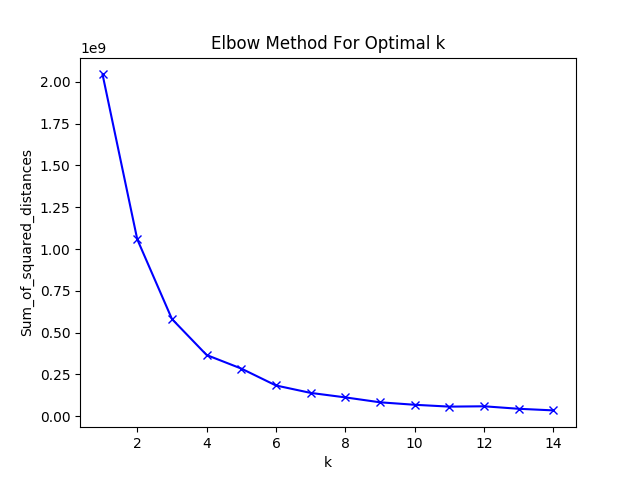
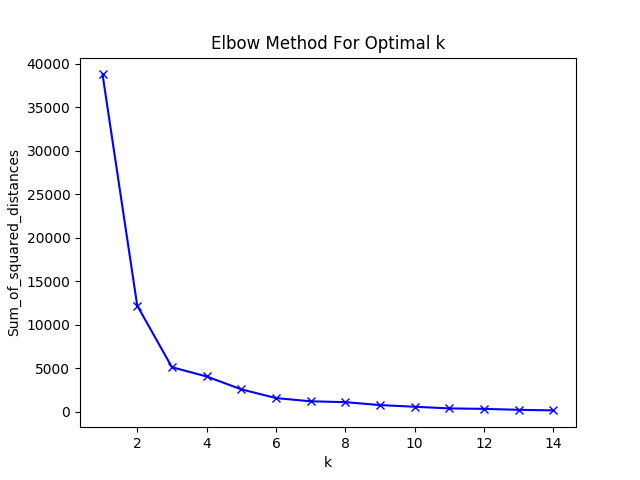
Adding the rest of files

diff --git a/Users_KMeans_Viz.py b/Users_KMeans_Viz.py
@@ -21,20 +21,24 @@ spark = SparkSession \
     .config("spark.some.config.option", "Angadpreet-KMeans") \
     .getOrCreate()
 today = dt.datetime.today()
-spark_df = spark.read.json("Data/yelp_academic_dataset_business.json").select("stars","review_count","is_open").rdd
+spark_df = sc.parallelize(spark.read.json("Data/yelp_academic_dataset_user.json").select("review_count", "average_stars", "yelping_since").rdd.map(lambda x: (x[0], x[1], (today - par.parse(x[2])).days)).take(1700))
 scaler = MinMaxScaler(inputCol="_1",\
          outputCol="scaled_1")
 trial_df = spark_df.map(lambda x: pyspark.ml.linalg.Vectors.dense(x)).map(lambda x:(x, )).toDF()
 scalerModel = scaler.fit(trial_df)
 vector_df = scalerModel.transform(trial_df).select("scaled_1").rdd.map(lambda x:Vectors.dense(x))
-Sum_of_squared_distances = []
-K = range(1,15)
-for k in K:
-    km = KMeans()
-    kme = km.train(vector_df, k)
-    Sum_of_squared_distances.append(kme.computeCost(vector_df))
-plt.plot(K, Sum_of_squared_distances, 'bx-')
-plt.xlabel('k')
-plt.ylabel('Sum_of_squared_distances')
-plt.title('Elbow Method For Optimal k')
+#vector_df = spark_df.map(lambda s : Vectors.dense(s))
+km = KMeans()
+kme = km.train(vector_df, 3)
+print(kme.computeCost(vector_df))
+print(kme.clusterCenters)
+df_with = spark.createDataFrame(vector_df.map(lambda x:(float(x[0][0]), float(x[0][1]), float(x[0][2]), kme.predict(x[0])))).toPandas()
+fig = plt.figure()
+ax = fig.add_subplot(111, projection = '3d')
+scatter = ax.scatter(df_with['_1'],df_with['_2'],df_with['_3'],
+                     c=df_with['_4'])
+ax.set_title('K Means Clustering')
+ax.set_xlabel('Review Count')
+ax.set_ylabel('Average Stars')
+plt.colorbar(scatter)
 plt.show()

diff --git a/User_KMeans.py b/User_KMeans.py
@@ -21,20 +21,17 @@ spark = SparkSession \
     .config("spark.some.config.option", "Angadpreet-KMeans") \
     .getOrCreate()
 today = dt.datetime.today()
-spark_df = spark.read.json("Data/yelp_academic_dataset_business.json").select("stars","review_count","is_open").rdd
+spark_df = sc.parallelize(spark.read.json("Data/yelp_academic_dataset_user.json").select("review_count", "average_stars", "yelping_since").rdd.map(lambda x: (x[0], x[1], (today - par.parse(x[2])).days)).take(1700))
 scaler = MinMaxScaler(inputCol="_1",\
          outputCol="scaled_1")
 trial_df = spark_df.map(lambda x: pyspark.ml.linalg.Vectors.dense(x)).map(lambda x:(x, )).toDF()
 scalerModel = scaler.fit(trial_df)
 vector_df = scalerModel.transform(trial_df).select("scaled_1").rdd.map(lambda x:Vectors.dense(x))
-Sum_of_squared_distances = []
-K = range(1,15)
-for k in K:
-    km = KMeans()
-    kme = km.train(vector_df, k)
-    Sum_of_squared_distances.append(kme.computeCost(vector_df))
-plt.plot(K, Sum_of_squared_distances, 'bx-')
-plt.xlabel('k')
-plt.ylabel('Sum_of_squared_distances')
-plt.title('Elbow Method For Optimal k')
-plt.show()
+#vector_df = spark_df.map(lambda s : Vectors.dense(s))
+km = KMeans()
+kme = km.train(vector_df, k = 3, maxIterations = 40, initializationMode = "random")
+print(kme.computeCost(vector_df))
+centroids = kme.clusterCenters
+df_with = vector_df.map(lambda x:(x[0], kme.predict(x[0])))
+error_df = df_with.map(lambda x:(Vectors.squared_distance(x[0], centroids[x[1]]))).reduce(lambda a, b: a+b)
+print(error_df)

diff --git a/Users_PIC_Viz.py b/Users_PIC_Viz.py
@@ -13,6 +13,10 @@ sc = SparkContext(conf=conf)
 from pyspark.sql import SparkSession
 from pyspark.ml.feature import MinMaxScaler
 import pyspark.ml.linalg
+import matplotlib.pyplot as plt
+from mpl_toolkits.mplot3d import Axes3D
+import pandas as pd
+import numpy as np
 def func1(x, y):
     z = x[0] + y[0]
     s = x[1] + y[1]
@@ -41,7 +45,13 @@ bun = mat.rows.collect()
 pre = sc.parallelize(mat.columnSimilarities().entries.map(lambda e: (e.i, e.j, e.value)).collect())
 #simsPerfect = sc.parallelize(mat.columnSimilarities().entries.collect())
 model = PowerIterationClustering.train(pre, 3, 40, "random")
-hun = model.assignments().map(lambda x: (x.cluster, (Vectors.dense(bun[0][x.id], bun[1][x.id], bun[2][x.id]), 1)))
-centroids = hun.reduceByKey(lambda x, y: func1(x, y)).map(lambda x: (x[0], x[1][0]/x[1][1])).collect()
-error_df = hun.map(lambda x:(Vectors.squared_distance(x[1][0], centroids[x[0]][1]))).reduce(lambda a, b: a+b)
-print(error_df)
+df_with = spark.createDataFrame(model.assignments().map(lambda x: (float(bun[0][x.id]), float(bun[1][x.id]), float(bun[2][x.id]), x.cluster))).toPandas()
+fig = plt.figure()
+ax = fig.add_subplot(111, projection = '3d')
+scatter = ax.scatter(df_with['_1'],df_with['_2'],df_with['_3'],
+                     c=df_with['_4'])
+ax.set_title('Spectral/Power Iteration Clustering')
+ax.set_xlabel('Review Count')
+ax.set_ylabel('Average Stars')
+plt.colorbar(scatter)
+plt.show()

diff --git a/Users_Hierarical_Viz.py b/Users_Hierarical_Viz.py
@@ -10,6 +10,18 @@ import pandas as pd
 import numpy as np
 from pyspark.ml.feature import MinMaxScaler
 import pyspark.ml.linalg
+import sys
+
+def findCenter(vector, centroids):
+    dist = sys.maxint
+    cluster = -1
+    i = 0
+    for center in centroids:
+        if(Vectors.squared_distance(center, vector)<dist):
+            dist = Vectors.squared_distance(center, vector)
+            cluster = i
+        i += 1
+    return cluster
 
 conf = SparkConf().setAppName("test").setMaster("local[*]")
 sc = SparkContext(conf=conf)
@@ -29,5 +41,15 @@ scalerModel = scaler.fit(trial_df)
 vector_df = scalerModel.transform(trial_df).select("scaled_1").rdd.map(lambda x:Vectors.dense(x))
 #vector_df = spark_df.map(lambda s : Vectors.dense(s))
 km = BisectingKMeans()
-kme = km.train(vector_df, k = 3, maxIterations = 20, initializationMode = "random")
-print(kme.computeCost(vector_df))
+kme = km.train(vector_df, k = 3, maxIterations = 20)
+centers = kme.clusterCenters
+df_with = spark.createDataFrame(vector_df.map(lambda x:(float(x[0][0]), float(x[0][1]), float(x[0][2]), findCenter(x[0], centers)))).toPandas()
+fig = plt.figure()
+ax = fig.add_subplot(111, projection = '3d')
+scatter = ax.scatter(df_with['_1'],df_with['_2'],df_with['_3'],
+                     c=df_with['_4'])
+ax.set_title('Bisecting K Means Clustering')
+ax.set_xlabel('Review Count')
+ax.set_ylabel('Average Stars')
+plt.colorbar(scatter)
+plt.show()

diff --git a/Users_GMM_Viz.py b/Users_GMM_Viz.py
@@ -5,6 +5,10 @@ import datetime as dt
 import dateutil.parser as par
 from pyspark.ml.feature import MinMaxScaler
 import pyspark.ml.linalg
+import matplotlib.pyplot as plt
+from mpl_toolkits.mplot3d import Axes3D
+import pandas as pd
+import numpy as np
 
 conf = SparkConf().setAppName("test").setMaster("local[*]")
 sc = SparkContext(conf=conf)
@@ -33,6 +37,13 @@ model = gmm.fit(trial_df)
 
 transformed_df = model.transform(trial_df)  # assign data to gaussian components ("clusters")
 final_df = transformed_df.rdd.map(lambda x:(x[1], (x[0], 1)))
-centroids = final_df.reduceByKey(lambda x, y: func1(x, y)).map(lambda x: (x[0], x[1][0]/x[1][1])).collect()
-error_df = transformed_df.rdd.map(lambda x:(Vectors.squared_distance(x[0], centroids[x[1]][1]))).reduce(lambda a, b: a+b)
-print(error_df)
+df_with = spark.createDataFrame(final_df.map(lambda x: (float(x[1][0][0]), float(x[1][0][1]), float(x[1][0][2]), x[0]))).toPandas()
+fig = plt.figure()
+ax = fig.add_subplot(111, projection = '3d')
+scatter = ax.scatter(df_with['_1'],df_with['_2'],df_with['_3'],
+                     c=df_with['_4'])
+ax.set_title('GMM Clustering')
+ax.set_xlabel('Review Count')
+ax.set_ylabel('Average Stars')
+plt.colorbar(scatter)
+plt.show()
